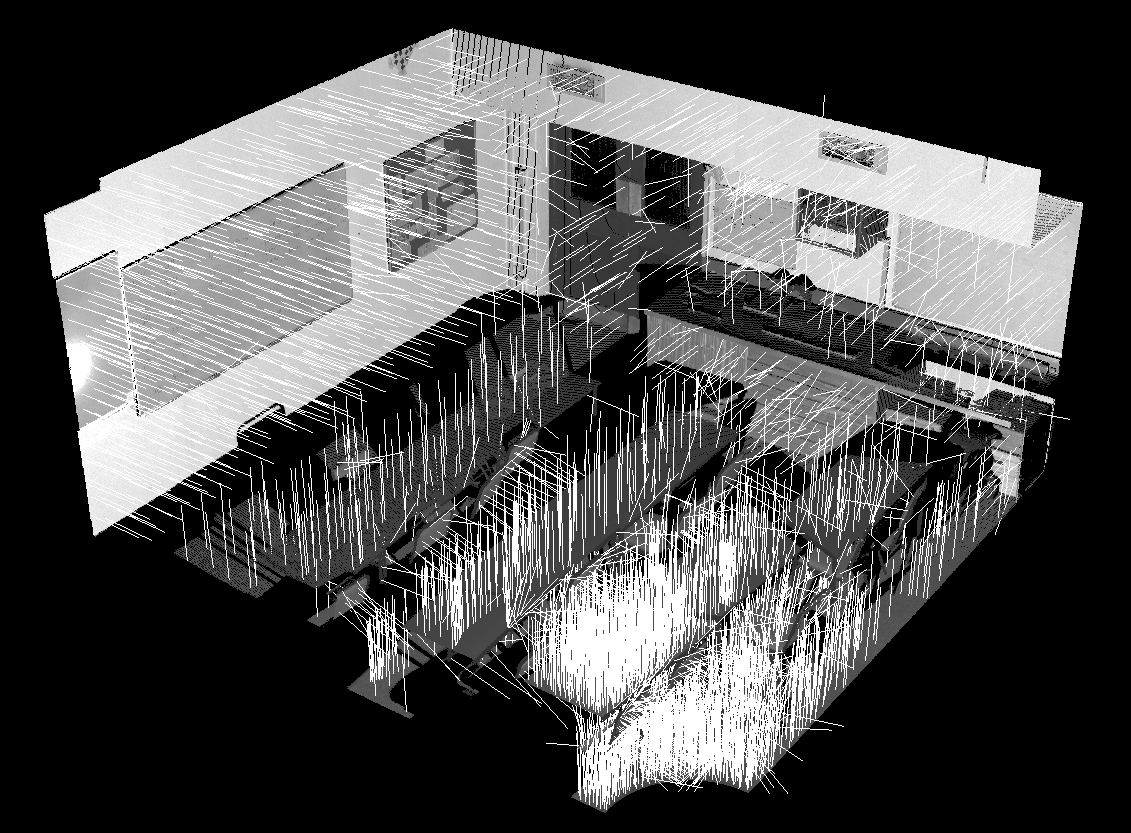
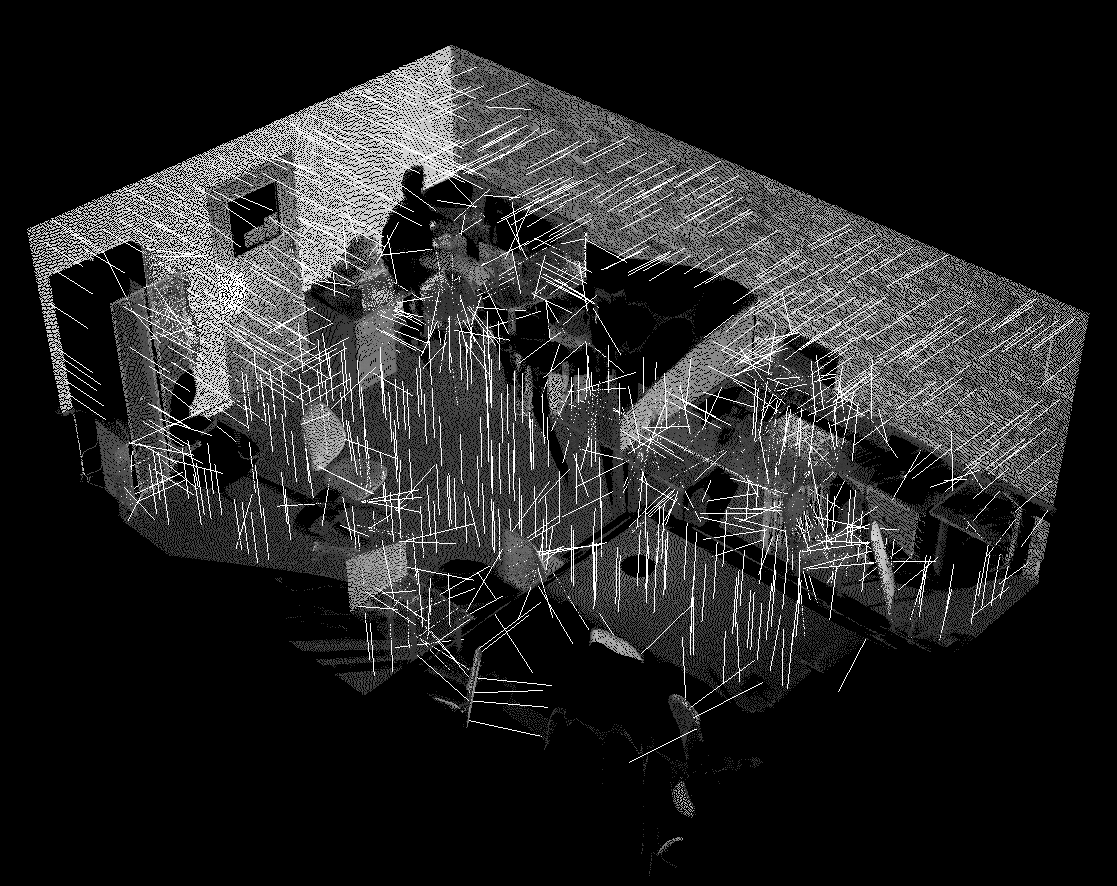
added region growing image

diff --git a/Final Report/Includes/Method.tex b/Final Report/Includes/Method.tex
@@ -59,14 +59,14 @@
 			\\
 			There is no mathematical method for determining the sign of the normal, its orientation as computed in the PCA is ambiguous, and not consistent over the whole point cloud. 
 			
-			The solution to this issue is simple. If the viewpoint is known, in the case of laser scans the scan center, then orientate all normals $\vec{n_i}$ towards the viewpoint. This whole process results in what is seen in figure \ref{fig:Normals}
+			The solution to this issue is simple. If the viewpoint is known, in the case of laser scans the scan center, then orientate all normals $\vec{n_i}$ towards the viewpoint. This whole process results in what is seen in figure \ref{fig:Normals}.
 			
-		\begin{figure}[H]
-		\centering
-		\includegraphics[width=0.7\linewidth]{Includes/images/Normals}
-		\caption{Normals calculated over a cut down section of a point cloud}
-		\label{fig:Normals}
-		\end{figure}
+			\begin{figure}[H]
+			\centering
+			\includegraphics[width=0.7\linewidth]{Includes/images/Normals}
+			\caption{Normals calculated over a cut down section of a point cloud (the roof has been removed for ease of viewing)}
+			\label{fig:Normals}
+			\end{figure}
 
 				
 	\subsection{Region Growing}
@@ -87,9 +87,17 @@
 		
 	\end{itemize}
 	
-	This is repeated while the list of available points is not empty.\\
-	\\	
+	This is repeated while the list of available points is not empty.
+	
 	If after a seed point has been through the process and the number of points does not reach the user defined minimum size, the region removed from the cloud as unclassified. Unclassified points are removed from the cloud completely after the process is terminated.
+	
+	\begin{figure}[H]
+	\centering
+	\includegraphics[width=0.8\linewidth]{Includes/images/GrownRegions}
+	\caption{Red Points represent unclassified points}
+	\label{fig:GrownRegions}
+	\end{figure}
+			
 		
 	
 \section{Surface Extraction}

diff --git a/Final Report/main.tex b/Final Report/main.tex
@@ -62,6 +62,7 @@
 
 	\include{Includes/References}
 
+	
 	\include{Includes/appendix}
 
 
